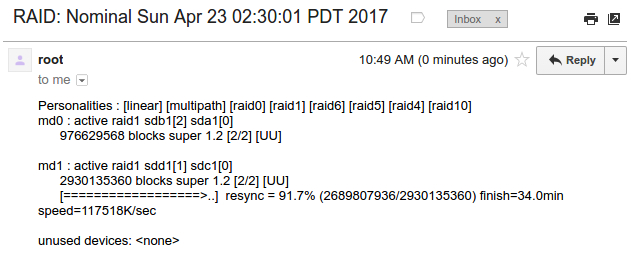
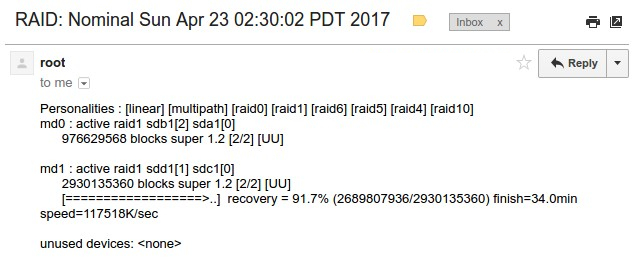
raid blog post done

diff --git a/content/post/raid.html b/content/post/raid.html
@@ -1,19 +1,20 @@
 ---
-date: 2017-01-08T15:05:07-08:00
+date: 2017-04-23T15:05:07-08:00
 draft: false
 title: "RAID in the Wild"
 
 description: "TL;DR: Redundant array of independent disks (RAID) is an old
-technology (first invented in 1977) for improving the reliability, availability,
-and performance of disk drives. You likely interact with systems that use RAID
-on a daily basis as it backs almost all storage systems and is used in
-applications ranging from commerical cloud storage to supercomputing. However
-for me (and probably many others), RAID was only ever a clever idea discussed on
-the chalkboard for ~10 minutes in my college computer systems course. Well, I
-just experienced a disk failure on my personal file server and the RAID1 setup I
-had saved the day (no data loss!); even though this is not remarkable from a
-theoretical standpoint, there is something satisfying about seeing this
-classroom concept work in the wild."
+technology (first conceived in 1977) for improving the reliability,
+availability, and performance of disk drives. You likely interact with systems
+that use RAID on a daily basis as it backs almost all storage systems and is
+used in applications ranging from commercial cloud storage to
+supercomputing. However for me (and probably many others), RAID was only ever a
+clever idea discussed on the chalkboard for ~10 minutes in a college computer
+systems course. Well, I just experienced a disk failure on my personal file
+server and the RAID1 setup I had saved the day (no data loss!); even though this
+is not remarkable from a theoretical standpoint, there is something satisfying
+about seeing this classroom concept work in the wild."
+
 ---
 
 <div style="width:100%;margin-bottom:10px;">
@@ -22,43 +23,60 @@ classroom concept work in the wild."
       <img src="/images/raid/blog_john_emmons_raid_email.jpg" alt="raid_email" style="width:100%;border-radius:7px;" >
     </a>
     <p style="padding:10px;padding-bottom:0px;text-align:left">
-      Figure XYZ: receiving news of the damaged hard drive in my personal file
-      server.
+      Figure 1: The email I received the night of a hard drive failure
+      (/dev/sdd) on my personal file server. The drive was part of a RAID1 array
+      which is checked every night at 2:30am; emails reports are sent to me so I
+      can monitor the status of the server without directly accessing it.
     </p>
   </div>
 </div>
 
+<!-- <p> -->
+<!--   * For those unfamiliar with RAID, I recommend skimming the Wikipedia article -->
+<!--   here -->
+<!--   (<a href="https://en.wikipedia.org/wiki/RAID">https://en.wikipedia.org/wiki/RAID</a>). -->
+<!-- </p> -->
+
 <p>
-  Six days ago I arrived in California after driving 30 hours and
-  over <a href="https://www.google.com/maps/dir/Anoka,+MN/Menlo+Park,+CA/@41.7897485,-114.7629635,5.25z/data=!4m15!4m14!1m5!1m1!1s0x52b317bc617b8651:0x6b8c8cae8bbaf3e6!2m2!1d-93.3871758!2d45.1977428!1m5!1m1!1s0x808fa6b1117280ff:0xebbf998e5df289ab!2m2!1d-122.1817252!2d37.4529598!3e0!5i1">2000
-    miles</a> from Minneapolis, Minnesota (my home town). I didn't waste any time
-  either. It was three long days of driving sunrise to
-  sunset; <span style="font-style: italic">and I did it by myself</span>. A bit
-  of anxiety and nervousness always accompanies new experiences; but spending 30
-  hours in the car thinking about the next 5-6 year of constant grad student
-  struggle amplified my concerns to fullblown terror by the time I arrived.
+  Sometime during the night of April 14th a hard drive (/dev/sdd) went silent;
+  its platter resting motionlessly as increasingly desperate read and write
+  requests from the operating system went unanswered. After trying
+  unsuccessfully to resuscitate /dev/sdd, the operating system pronounced the
+  hard drive dead. The medical examiner (i.e. the sysadmin, me) was then
+  summoned to the scene with the message: "RAID DEGRADED" (figure 1). While
+  performing an autopsy (i.e. checking the server logs), nothing that would
+  explain /dev/sdd's death was found. We can only speculate what the true cause
+  of death was; perhaps it was an electrical spike, a speck of dust on the
+  read/write head, a cosmic ray, or divine intervention; God only knows. Sudden
+  deaths like these are especially tragic because those close to the deceased
+  have no time to prepare; often greatly extending the recovery
+  process. Fortunately, /dev/sdd was a member of a RAID1 array!
 </p>
 
 <p>
-  Six days ago I arrived in California after driving 30 hours and
-  over <a href="https://www.google.com/maps/dir/Anoka,+MN/Menlo+Park,+CA/@41.7897485,-114.7629635,5.25z/data=!4m15!4m14!1m5!1m1!1s0x52b317bc617b8651:0x6b8c8cae8bbaf3e6!2m2!1d-93.3871758!2d45.1977428!1m5!1m1!1s0x808fa6b1117280ff:0xebbf998e5df289ab!2m2!1d-122.1817252!2d37.4529598!3e0!5i1">2000
-    miles</a> from Minneapolis, Minnesota (my home town). I didn't waste any time
-  either. It was three long days of driving sunrise to
-  sunset; <span style="font-style: italic">and I did it by myself</span>. A bit
-  of anxiety and nervousness always accompanies new experiences; but spending 30
-  hours in the car thinking about the next 5-6 year of constant grad student
-  struggle amplified my concerns to fullblown terror by the time I arrived.
+  Alright, enough with melodramatic storytelling. When I checked my email on
+  April 14th I got the message shown in figure 1; the hard drive I used to store
+  all my personal files and my family's home movies and photographs had
+  failed. Decades worth of irreplaceable videos, photographs, and personal files
+  were lost in an instant when the hard drive died. This would have been an
+  unmitigated disaster except I had configured the hard drive in a RAID array.
+  Specifically, the hard drives referred to as /dev/sdc and /dev/sdd were
+  configured as a RAID1
+  array. <a href="https://en.wikipedia.org/wiki/Standard_RAID_levels">RAID1</a>
+  provides redundancy against hard drive failures like the one I experienced by
+  mirroring contents across all hard drives in the array; when /dev/sdd failed,
+  /dev/sdc had an exact replica of the data, so the file server storing my and
+  my family's files continued running without interruption.
 </p>
 
 <p>
-  Six days ago I arrived in California after driving 30 hours and
-  over <a href="https://www.google.com/maps/dir/Anoka,+MN/Menlo+Park,+CA/@41.7897485,-114.7629635,5.25z/data=!4m15!4m14!1m5!1m1!1s0x52b317bc617b8651:0x6b8c8cae8bbaf3e6!2m2!1d-93.3871758!2d45.1977428!1m5!1m1!1s0x808fa6b1117280ff:0xebbf998e5df289ab!2m2!1d-122.1817252!2d37.4529598!3e0!5i1">2000
-    miles</a> from Minneapolis, Minnesota (my home town). I didn't waste any time
-  either. It was three long days of driving sunrise to
-  sunset; <span style="font-style: italic">and I did it by myself</span>. A bit
-  of anxiety and nervousness always accompanies new experiences; but spending 30
-  hours in the car thinking about the next 5-6 year of constant grad student
-  struggle amplified my concerns to fullblown terror by the time I arrived.
+  I had simulated disk failures when I built and configured my file server, but
+  this was the first time I had experienced a disk failure in production. It may
+  seem small, but seeing <span style="font-style:italic">my</span> system
+  perform flawlessly under a real world hardware failure was
+  super <span style="font-style:italic">awesome</span> (at least to me). I can
+  only imagine the relief system administrators of the 1970s and 1980s had when
+  they first deployed RAID in their storage systems. 
 </p>
 
 <div style="width:100%;margin-bottom:10px;">
@@ -67,33 +85,57 @@ classroom concept work in the wild."
       <img src="/images/raid/blog_john_emmons_amazon.jpg" alt="computer_guts" style="min-width:300px;width:100%;border-radius:7px;" >
     </a>
     <p style="padding:10px;padding-bottom:0px;text-align:left">
-      Figure XYZ: tearing open the guts of the file server and replacing the damaged hard
-      drive with the new one from the mail.
+      Figure 2: One of the primary reasons to use RAID is that it can create
+      reliable storage devices by combining many unreliable and inexpensive
+      devices. Even the cheap, consumer-grade hard drive shown above can be used
+      in mission critical applications without incurring undue risk if properly
+      configured in a RAID array.
     </p>
   </div>
 </div>
 
 <p>
-  Six days ago I arrived in California after driving 30 hours and
-  over <a href="https://www.google.com/maps/dir/Anoka,+MN/Menlo+Park,+CA/@41.7897485,-114.7629635,5.25z/data=!4m15!4m14!1m5!1m1!1s0x52b317bc617b8651:0x6b8c8cae8bbaf3e6!2m2!1d-93.3871758!2d45.1977428!1m5!1m1!1s0x808fa6b1117280ff:0xebbf998e5df289ab!2m2!1d-122.1817252!2d37.4529598!3e0!5i1">2000
-    miles</a> from Minneapolis, Minnesota (my home town). I didn't waste any time
-  either. It was three long days of driving sunrise to
-  sunset; <span style="font-style: italic">and I did it by myself</span>. A bit
-  of anxiety and nervousness always accompanies new experiences; but spending 30
-  hours in the car thinking about the next 5-6 year of constant grad student
-  struggle amplified my concerns to fullblown terror by the time I arrived.
+  Anyway, even though my file server was still working and I had not lost any
+  data (yet), I needed to replace the broken drive as soon as possible. If the
+  second drive (/dev/sdc) failed before I restored the RAID array, data would
+  truly be lost. So I quickly ordered a new drive on Amazon (figure 2) and
+  waited anxiously for the shipment to arrive.
 </p>
 
+<p>
+  Several days later, I got the new hard drive in the mail! If I were
+  using <a href="https://en.wikipedia.org/wiki/Disk_array_controller">Hardware
+  RAID</a>, the recovery process would automatically begin as soon I installed
+  the new drive; however, when I built the file server I opted to save money
+  (hardware RAID controllers are expensive!) and use the default software RAID
+  controller for Linux, <span style="font-style:italic">mdadm</span>. The first
+  step on the road to recovery was to remove the broken hard drive from the
+  software RAID controller.
+</p>
+
+{{< highlight bash >}}
+# get status of RAID array
+$ cat /proc/mdstat
+Personalities : [linear] [multipath] [raid0] [raid1] [raid6] [raid5] [raid4] [raid10]
+md0 : active raid1 sdb1[1] sda1[0]
+976629568 blocks super 1.2 [2/2] [UU]
+
+md1 : active raid1 sdd1[1](F) sdc1[0]
+2930133824 blocks super 1.2 [2/1] [U_]
+
+unused devices: none
+
+# remove the failed drive
+$ mdadm --manage /dev/md1 --remove /dev/sdd1
+mdadm: hot removed /dev/sdd1
+{{< /highlight >}}
 
 <p>
-  Six days ago I arrived in California after driving 30 hours and
-  over <a href="https://www.google.com/maps/dir/Anoka,+MN/Menlo+Park,+CA/@41.7897485,-114.7629635,5.25z/data=!4m15!4m14!1m5!1m1!1s0x52b317bc617b8651:0x6b8c8cae8bbaf3e6!2m2!1d-93.3871758!2d45.1977428!1m5!1m1!1s0x808fa6b1117280ff:0xebbf998e5df289ab!2m2!1d-122.1817252!2d37.4529598!3e0!5i1">2000
-    miles</a> from Minneapolis, Minnesota (my home town). I didn't waste any time
-  either. It was three long days of driving sunrise to
-  sunset; <span style="font-style: italic">and I did it by myself</span>. A bit
-  of anxiety and nervousness always accompanies new experiences; but spending 30
-  hours in the car thinking about the next 5-6 year of constant grad student
-  struggle amplified my concerns to fullblown terror by the time I arrived.
+  Once the broken hard drive was removed from the RAID array in software, it was
+  time to power off the server and replace the drive (figure 3). After carefully
+  opening up the server and unplugging the dead drive from the motherboard, I
+  opened up the antistatic bag containing the new hard drive and installed
+  it. So far so good.
 </p>
 
 <div style="width:100%;margin-bottom:10px;">
@@ -102,54 +144,47 @@ classroom concept work in the wild."
       <img src="/images/raid/blog_john_emmons_guts_small.jpg" alt="computer_guts" style="min-width:300px;width:100%;border-radius:7px;" >
     </a>
     <p style="padding:10px;padding-bottom:0px;text-align:left">
-      Figure XYZ: tearing open the guts of the file server and replacing the damaged hard
-      drive with the new one from the mail.
+      Figure 3: Tearing open the guts of my file server, removing the damaged
+      hard drive, and replacing it with the new one.
     </p>
   </div>
 </div>
 
 <p>
-  Six days ago I arrived in California after driving 30 hours and
-  over <a href="https://www.google.com/maps/dir/Anoka,+MN/Menlo+Park,+CA/@41.7897485,-114.7629635,5.25z/data=!4m15!4m14!1m5!1m1!1s0x52b317bc617b8651:0x6b8c8cae8bbaf3e6!2m2!1d-93.3871758!2d45.1977428!1m5!1m1!1s0x808fa6b1117280ff:0xebbf998e5df289ab!2m2!1d-122.1817252!2d37.4529598!3e0!5i1">2000
-    miles</a> from Minneapolis, Minnesota (my home town). I didn't waste any time
-  either. It was three long days of driving sunrise to
-  sunset; <span style="font-style: italic">and I did it by myself</span>. A bit
-  of anxiety and nervousness always accompanies new experiences; but spending 30
-  hours in the car thinking about the next 5-6 year of constant grad student
-  struggle amplified my concerns to fullblown terror by the time I arrived.
+  Next, I needed to prepare the new hard drive and attach it to the RAID array.
+  Using standard UNIX tools we can copy the partition table of the working drive
+  to the newly installed drive. Then again
+  using <span style="font-style:italic">mdadm</span>, we can attach the new
+  drive to the RAID array; once the new drive is attached, the recovery process
+  will begin automatically!
 </p>
 
-<p>
-  Six days ago I arrived in California after driving 30 hours and
-  over <a href="https://www.google.com/maps/dir/Anoka,+MN/Menlo+Park,+CA/@41.7897485,-114.7629635,5.25z/data=!4m15!4m14!1m5!1m1!1s0x52b317bc617b8651:0x6b8c8cae8bbaf3e6!2m2!1d-93.3871758!2d45.1977428!1m5!1m1!1s0x808fa6b1117280ff:0xebbf998e5df289ab!2m2!1d-122.1817252!2d37.4529598!3e0!5i1">2000
-    miles</a> from Minneapolis, Minnesota (my home town). I didn't waste any time
-  either. It was three long days of driving sunrise to
-  sunset; <span style="font-style: italic">and I did it by myself</span>. A bit
-  of anxiety and nervousness always accompanies new experiences; but spending 30
-  hours in the car thinking about the next 5-6 year of constant grad student
-  struggle amplified my concerns to fullblown terror by the time I arrived.
-</p>
+{{< highlight bash >}}
+# copy the partitions from the healthy drive to the new drive
+$ sfdisk -d /dev/sdc | sfdisk /dev/sdd
 
-<p>
-  Six days ago I arrived in California after driving 30 hours and
-  over <a href="https://www.google.com/maps/dir/Anoka,+MN/Menlo+Park,+CA/@41.7897485,-114.7629635,5.25z/data=!4m15!4m14!1m5!1m1!1s0x52b317bc617b8651:0x6b8c8cae8bbaf3e6!2m2!1d-93.3871758!2d45.1977428!1m5!1m1!1s0x808fa6b1117280ff:0xebbf998e5df289ab!2m2!1d-122.1817252!2d37.4529598!3e0!5i1">2000
-    miles</a> from Minneapolis, Minnesota (my home town). I didn't waste any time
-  either. It was three long days of driving sunrise to
-  sunset; <span style="font-style: italic">and I did it by myself</span>. A bit
-  of anxiety and nervousness always accompanies new experiences; but spending 30
-  hours in the car thinking about the next 5-6 year of constant grad student
-  struggle amplified my concerns to fullblown terror by the time I arrived.
-</p>
+# attach the newly partitioned drive to the RAID array
+$ mdadm --manage /dev/md1 --add /dev/sdd1
+mdadm: re-added /dev/sdd1
+  
+# check the status of the RAID array
+$ cat /proc/mdstat
+Personalities : [linear] [multipath] [raid0] [raid1] [raid6] [raid5] [raid4] [raid10]
+md0 : active raid1 sdb1[2] sda1[0]
+976629568 blocks super 1.2 [2/2] [UU]
 
-<p>
-  Six days ago I arrived in California after driving 30 hours and
-  over <a href="https://www.google.com/maps/dir/Anoka,+MN/Menlo+Park,+CA/@41.7897485,-114.7629635,5.25z/data=!4m15!4m14!1m5!1m1!1s0x52b317bc617b8651:0x6b8c8cae8bbaf3e6!2m2!1d-93.3871758!2d45.1977428!1m5!1m1!1s0x808fa6b1117280ff:0xebbf998e5df289ab!2m2!1d-122.1817252!2d37.4529598!3e0!5i1">2000
-    miles</a> from Minneapolis, Minnesota (my home town). I didn't waste any time
-  either. It was three long days of driving sunrise to
-  sunset; <span style="font-style: italic">and I did it by myself</span>. A bit
-  of anxiety and nervousness always accompanies new experiences; but spending 30
-  hours in the car thinking about the next 5-6 year of constant grad student
-  struggle amplified my concerns to fullblown terror by the time I arrived.
+md1 : active raid1 sdd1[1] sdc1[0]
+2930135360 blocks super 1.2 [2/2] [UU]
+[>....................]  recovery = 0.4% (10923836/2930135360)
+  finish=448.0min speed=10918K/sec
+
+unused devices: none
+{{< /highlight >}}
+
+ <p>
+  Excellent, the RAID array is copying data from /dev/sdc to the newly installed
+  /dev/sdd drive. Time to get some rest while we wait for the system to fully
+  recover.
 </p>
 
 <div style="width:100%;margin-bottom:10px;">
@@ -158,19 +193,38 @@ classroom concept work in the wild."
       <img src="/images/raid/blog_john_emmons_healed_email.jpg" alt="computer_guts" style="min-width:300px;width:100%;border-radius:7px;" >
     </a>
     <p style="padding:10px;padding-bottom:0px;text-align:left">
-      Figure XYZ: tearing open the guts of the file server and replacing the damaged hard
-      drive with the new one from the mail.
+      Figure 4: After installing the new hard drive, my nightly integrity check
+      catches the RAID array as it finishes up the recovery process.
     </p>
   </div>
 </div>
 
 <p>
-  Six days ago I arrived in California after driving 30 hours and
-  over <a href="https://www.google.com/maps/dir/Anoka,+MN/Menlo+Park,+CA/@41.7897485,-114.7629635,5.25z/data=!4m15!4m14!1m5!1m1!1s0x52b317bc617b8651:0x6b8c8cae8bbaf3e6!2m2!1d-93.3871758!2d45.1977428!1m5!1m1!1s0x808fa6b1117280ff:0xebbf998e5df289ab!2m2!1d-122.1817252!2d37.4529598!3e0!5i1">2000
-    miles</a> from Minneapolis, Minnesota (my home town). I didn't waste any time
-  either. It was three long days of driving sunrise to
-  sunset; <span style="font-style: italic">and I did it by myself</span>. A bit
-  of anxiety and nervousness always accompanies new experiences; but spending 30
-  hours in the car thinking about the next 5-6 year of constant grad student
-  struggle amplified my concerns to fullblown terror by the time I arrived.
+  Waking up the next morning I see that the RAID array is completely recovered
+  (figure 4). And with all my and my family's files being stored across multiple
+  hard drives, I feel at ease again! 
+</p>
+
+<p>
+  P.S. It is important to note that RAID is not a replacement for regular
+  backups. RAID only protects you from hardware malfunctions (which are
+  relatively rare); backups using programs
+  like <span style="font-style:italic">rbackup</span> protect you from yourself.
+  If you accidentally delete an important file, RAID will happily delete that
+  file from all of the drives in the array. As a precaution against this type of
+  error, I have a separate drive on my file server which stores backups for the
+  last 6 months. 
+</p>
+
+<p>
+  P.P.S. And if you are extra paranoid about data loss, it is best to keep a
+  copy of your backups at a physically separate location (the further away the
+  better). This protects you in the event of natural disasters or other
+  unforseen events. I use a server at my parents house in Minnesota (a good
+  2000+ miles away) to keep copies of my backups just in case. 
+</p>
+
+<p>
+  P.P.P.S The more paranoid you are, the closer your system will resemble AWS
+  S3.
 </p>

diff --git a/layouts/partials/header.html b/layouts/partials/header.html
@@ -7,7 +7,7 @@
 	<title>{{ .Title }}</title>
 
     <link href="{{ .Site.BaseURL }}static/css/bootstrap.min.css" rel="stylesheet" type="text/css" media="screen">
-    <link href="{{ .Site.BaseURL }}static/css/customv2_2.css" rel="stylesheet" type="text/css" media="screen">
+    <link href="{{ .Site.BaseURL }}static/css/customv2_3.css" rel="stylesheet" type="text/css" media="screen">
     <link href="{{ .Site.BaseURL }}static/imgs/favicon.ico" rel="Shortcut Icon" />
     <link href="{{ .Site.BaseURL }}static/css/Lato.css" rel="stylesheet" type="text/css">
     <link rel="icon" href="{{ .Site.BaseURL }}static/imgs/faviconv2_1.ico">
